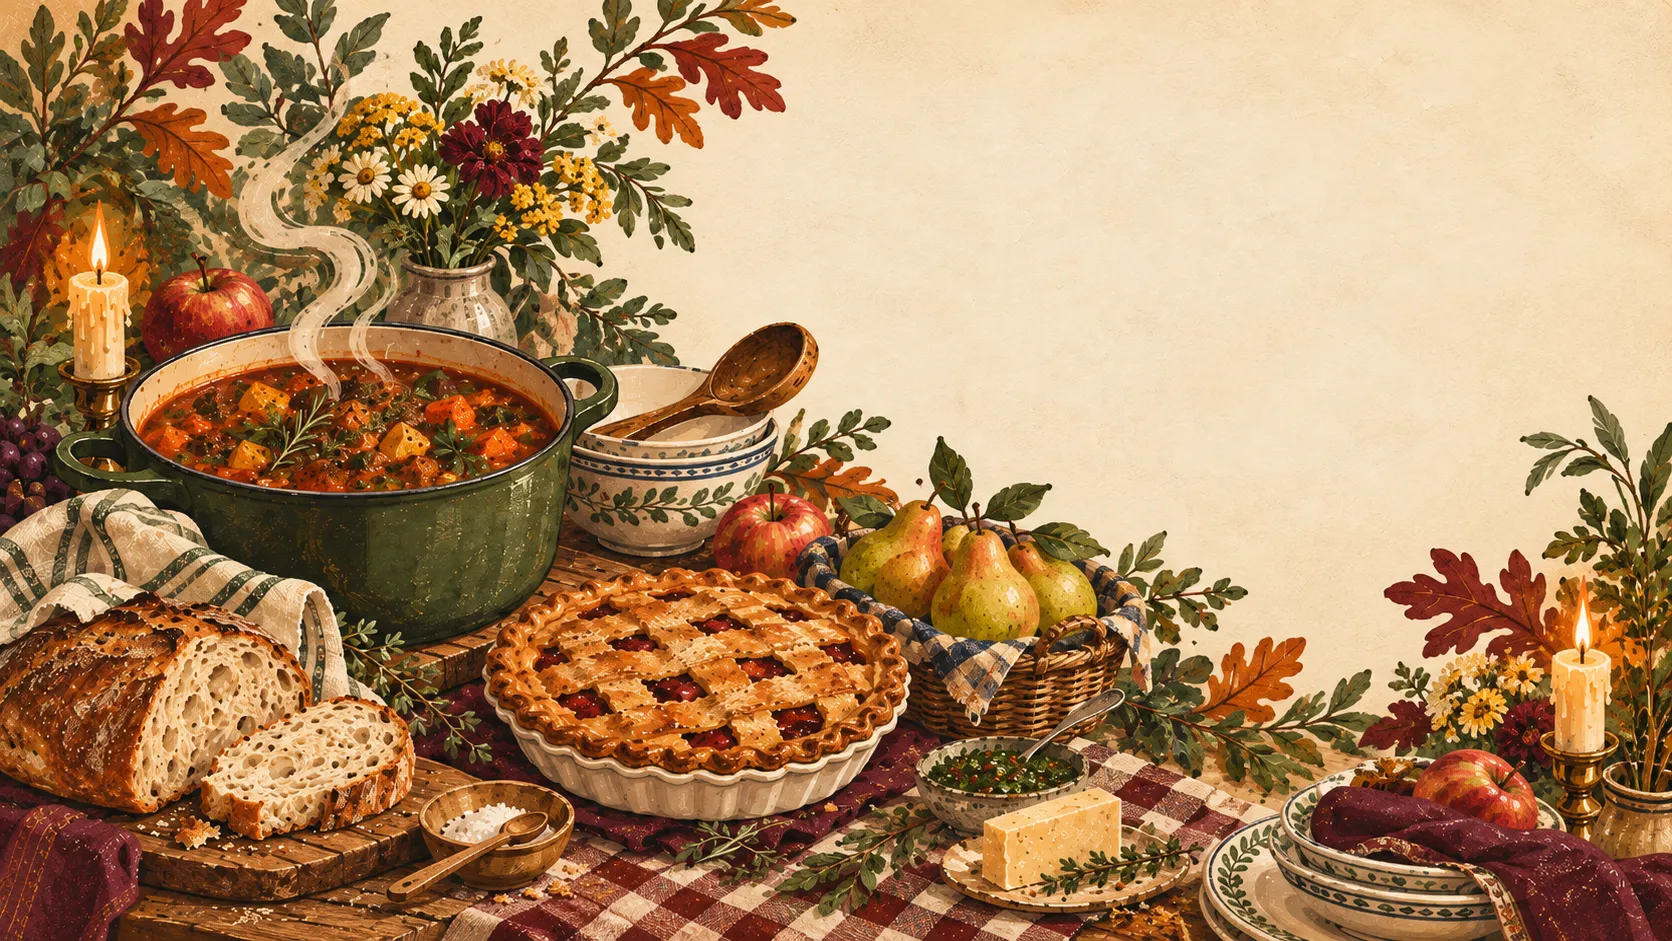
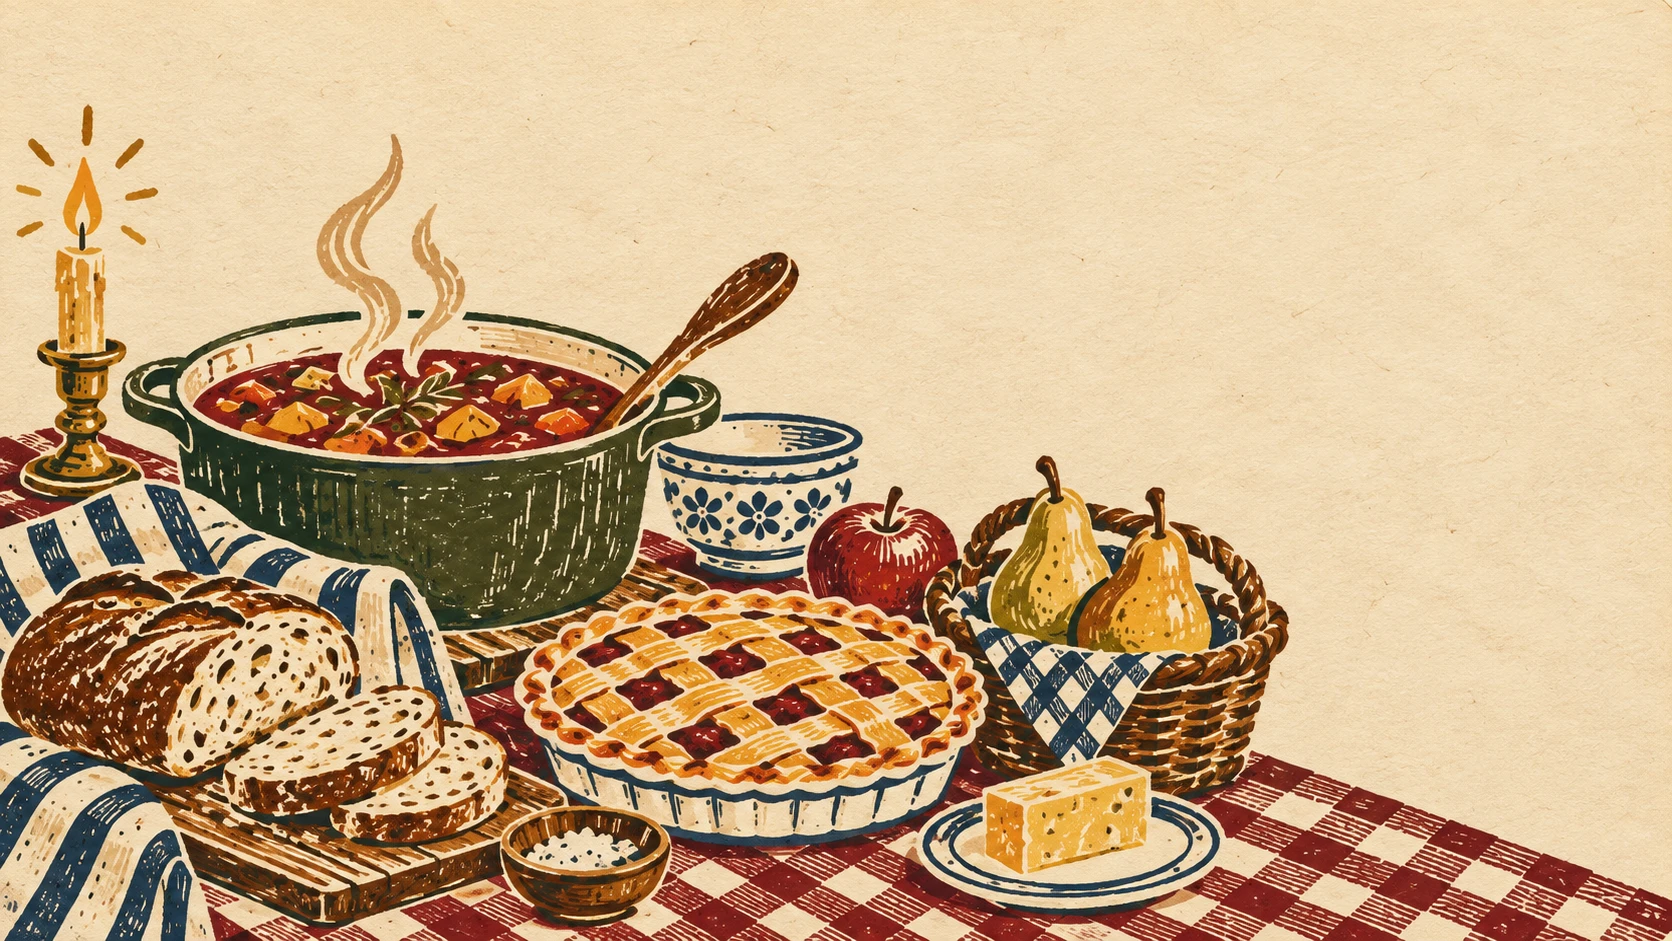
Swap hero for the block-print table illustration
Claude-Session: https://claude.ai/code/session_01JEZ5HP8K2n46Ho2gmZEkXX

diff --git a/src/views/home.tsx b/src/views/home.tsx
@@ -24,18 +24,18 @@ export default function HomePage() {
   return (
     <>
       {/* Hero: the illustration holds the table on the left; the empty parchment on the right carries the title */}
-      <section className="relative overflow-hidden border-b-[3px] border-double border-foreground/70 bg-[#f4e6c8] text-[#2c3025]">
+      <section className="relative overflow-hidden border-b-[3px] border-double border-foreground/70 bg-[#f1dbb5] text-[#2c3025]">
         {/* eslint-disable-next-line @next/next/no-img-element */}
         <img
           src="/hero-feast.webp"
-          alt="An autumn potluck table: a pot of stew, a lattice-topped pie, crusty bread, pears and apples, with candles and wildflowers"
+          alt="A block-print illustration of a potluck table: a pot of stew, a lattice-topped pie, crusty bread, pears in a basket and a wedge of cheese on a checked cloth"
           width={1672}
           height={941}
           fetchPriority="high"
-          className="aspect-[4/3] w-full object-cover object-[18%_100%] sm:aspect-[16/9] lg:aspect-[16/9]"
+          className="aspect-[16/11] w-full object-cover object-[25%_100%] sm:aspect-[16/9] lg:aspect-[16/9]"
         />
         <div className="relative mx-auto max-w-6xl px-4 py-10 sm:px-6 lg:absolute lg:inset-0 lg:max-w-none lg:p-0">
-          <div className="lg:absolute lg:top-[4.5%] lg:right-[4%] lg:left-[49%]">
+          <div className="lg:absolute lg:top-[4.5%] lg:right-[4%] lg:left-[50%]">
             <Annotation className="mb-5 block text-[1.6rem] lg:mb-[1.2vw] lg:text-[2vw]" rotate={-3}>
               ~ a neighborhood potluck cookbook ~
             </Annotation>
